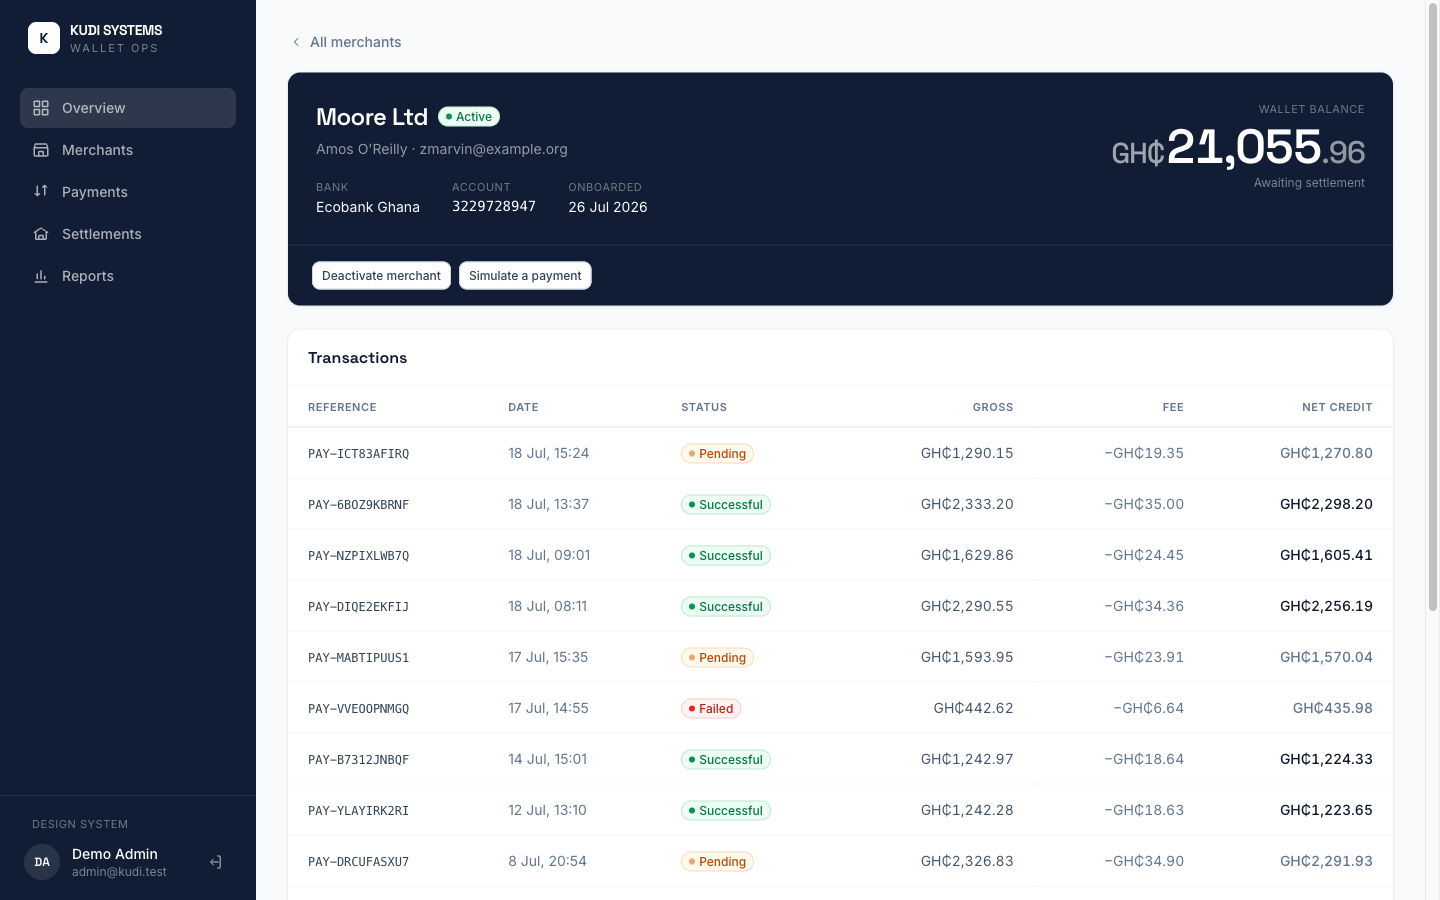
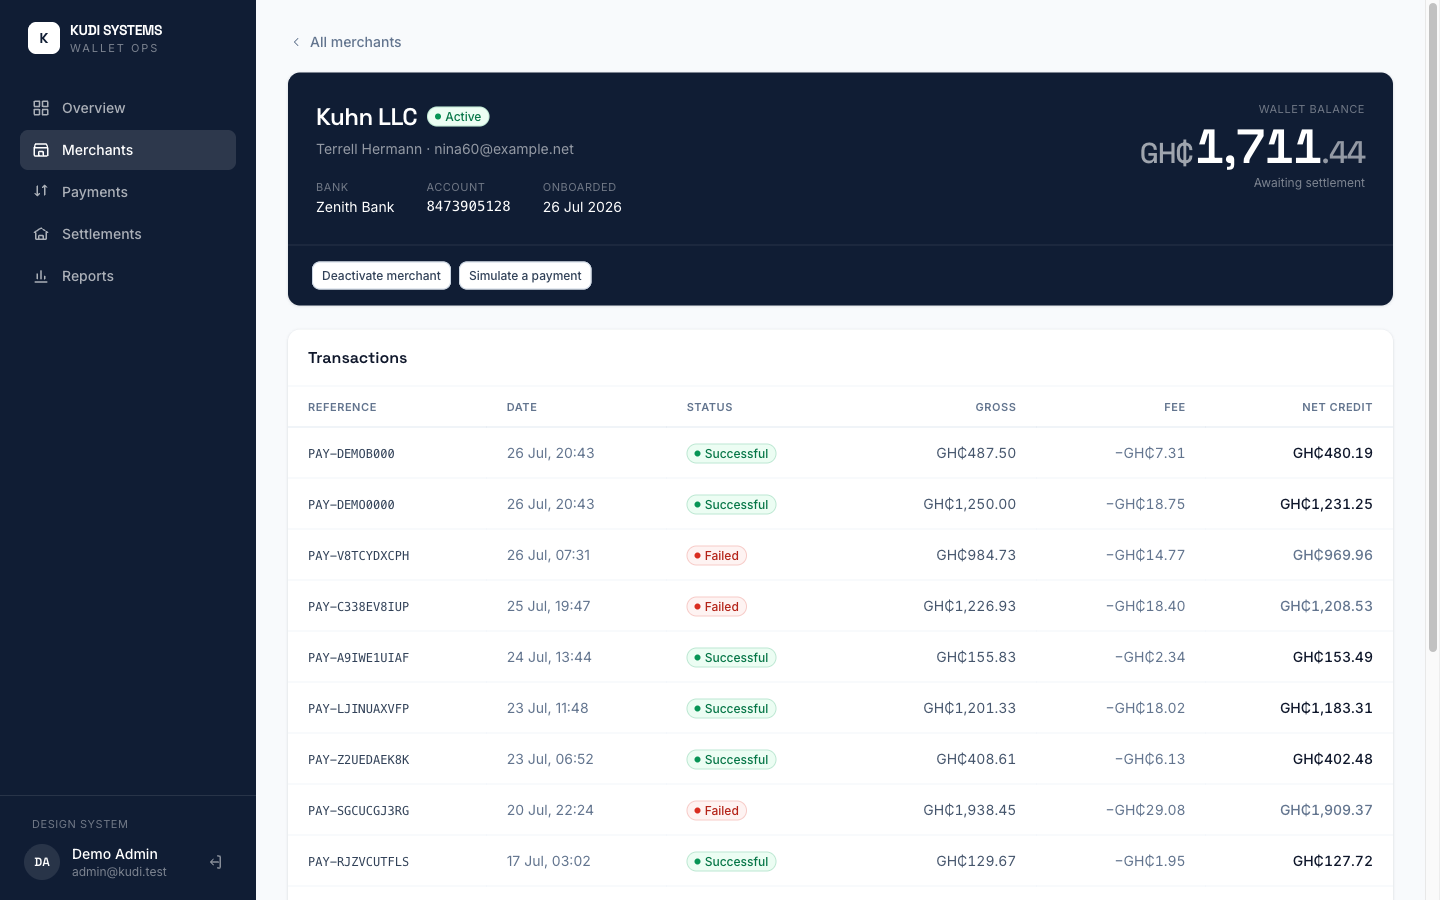
Fix sidebar highlighting the wrong nav item
Overview stayed highlighted on every page. RouterLink's active-class uses
inclusive matching, and Overview points at "/", which is an ancestor of
every route — so it matched everywhere.

Switching Overview to exact matching fixed that but broke merchant detail:
/merchants/8 is a sibling route of /merchants rather than a child, so
RouterLink does not treat it as including the list, and the section went
dark while viewing a merchant.

Highlighting is now computed from the resolved path — exact for Overview,
prefix for the rest — and rendered through the slot API so the class and
aria-current come from one expression instead of drifting apart.

Verified across all seven routes plus the mobile drawer: exactly one item
lit per route, with aria-current agreeing.

diff --git a/frontend/src/layouts/AppLayout.vue b/frontend/src/layouts/AppLayout.vue
@@ -18,12 +18,28 @@ const loggingOut = ref(false)
 watch(() => route.fullPath, () => (navOpen.value = false))
 
 const nav = [
-  { to: { name: 'dashboard' }, label: 'Overview', icon: 'grid' },
-  { to: { name: 'merchants' }, label: 'Merchants', icon: 'store' },
-  { to: { name: 'transactions' }, label: 'Payments', icon: 'arrows' },
-  { to: { name: 'settlements' }, label: 'Settlements', icon: 'bank' },
-  { to: { name: 'reports' }, label: 'Reports', icon: 'chart' },
+  { to: { name: 'dashboard' }, label: 'Overview', icon: 'grid', exact: true },
+  { to: { name: 'merchants' }, label: 'Merchants', icon: 'store', exact: false },
+  { to: { name: 'transactions' }, label: 'Payments', icon: 'arrows', exact: false },
+  { to: { name: 'settlements' }, label: 'Settlements', icon: 'bank', exact: false },
+  { to: { name: 'reports' }, label: 'Reports', icon: 'chart', exact: false },
 ] as const
+
+/**
+ * Highlighting is computed from the path rather than RouterLink's own active
+ * state, which cannot express what this nav needs:
+ *
+ *  - Overview points at "/", an ancestor of every route, so inclusive
+ *    matching would light it up on every page — hence `exact`.
+ *  - Merchant detail (/merchants/8) is a *sibling* route of the list, not a
+ *    child, so RouterLink does not consider it to include /merchants. A
+ *    prefix check keeps the section lit while viewing one merchant.
+ */
+function isNavActive(item: (typeof nav)[number]): boolean {
+  const target = router.resolve(item.to).path
+
+  return item.exact ? route.path === target : route.path === target || route.path.startsWith(`${target}/`)
+}
 
 const icons: Record<string, string> = {
   grid: 'M3 3h7v7H3V3zm11 0h7v7h-7V3zM3 14h7v7H3v-7zm11 0h7v7h-7v-7z',
@@ -106,24 +122,30 @@ const initials = (name: string) =>
         <nav aria-label="Main">
           <ul class="space-y-0.5">
             <li v-for="item in nav" :key="item.label">
-              <RouterLink
-                :to="item.to"
-                class="flex items-center gap-3 rounded-lg px-3 py-2.5 text-sm font-medium text-white/65 transition-colors hover:bg-white/8 hover:text-white"
-                active-class="bg-white/12 text-white"
-              >
-                <svg
-                  class="size-4.5 shrink-0"
-                  viewBox="0 0 24 24"
-                  fill="none"
-                  stroke="currentColor"
-                  stroke-width="1.75"
-                  stroke-linecap="round"
-                  stroke-linejoin="round"
-                  aria-hidden="true"
+              <!-- Slot API so the highlight and aria-current both come from
+                   isNavActive, and never disagree. -->
+              <RouterLink v-slot="{ href, navigate }" :to="item.to" custom>
+                <a
+                  :href="href"
+                  class="flex items-center gap-3 rounded-lg px-3 py-2.5 text-sm font-medium transition-colors hover:bg-white/8 hover:text-white"
+                  :class="isNavActive(item) ? 'bg-white/12 text-white' : 'text-white/65'"
+                  :aria-current="isNavActive(item) ? 'page' : undefined"
+                  @click="navigate"
                 >
-                  <path :d="icons[item.icon]" />
-                </svg>
-                {{ item.label }}
+                  <svg
+                    class="size-4.5 shrink-0"
+                    viewBox="0 0 24 24"
+                    fill="none"
+                    stroke="currentColor"
+                    stroke-width="1.75"
+                    stroke-linecap="round"
+                    stroke-linejoin="round"
+                    aria-hidden="true"
+                  >
+                    <path :d="icons[item.icon]" />
+                  </svg>
+                  {{ item.label }}
+                </a>
               </RouterLink>
             </li>
           </ul>
